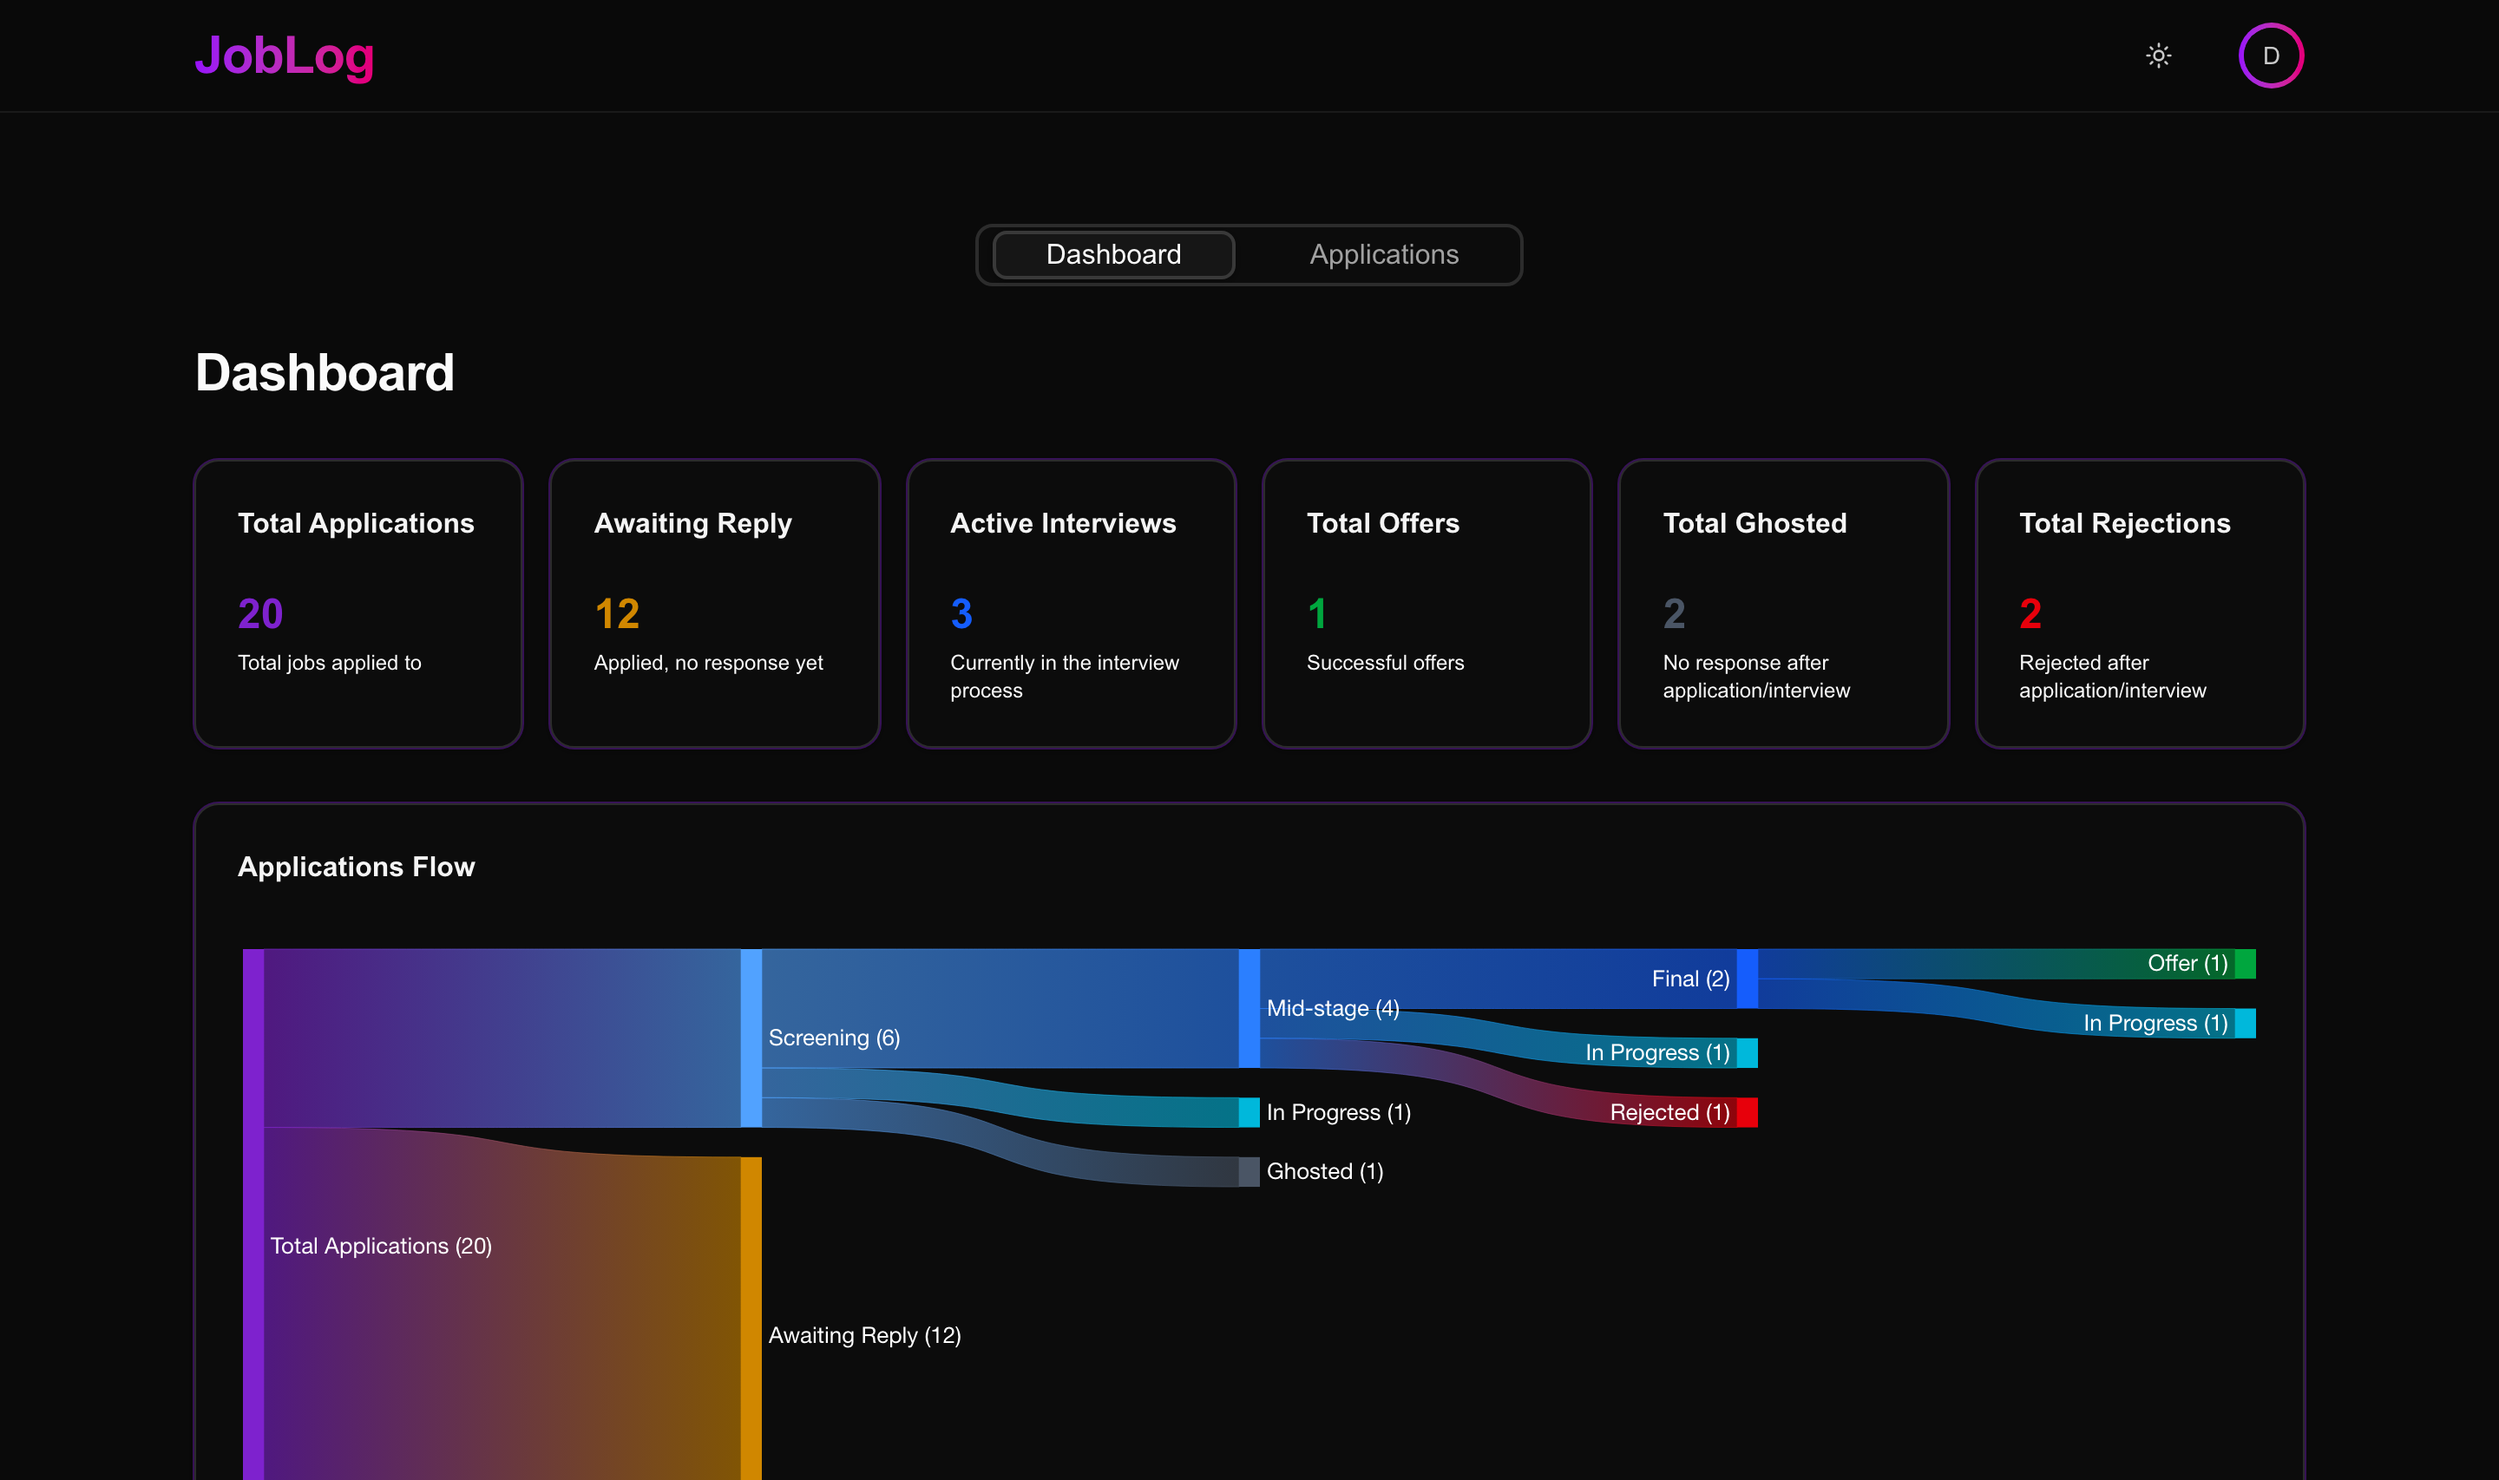
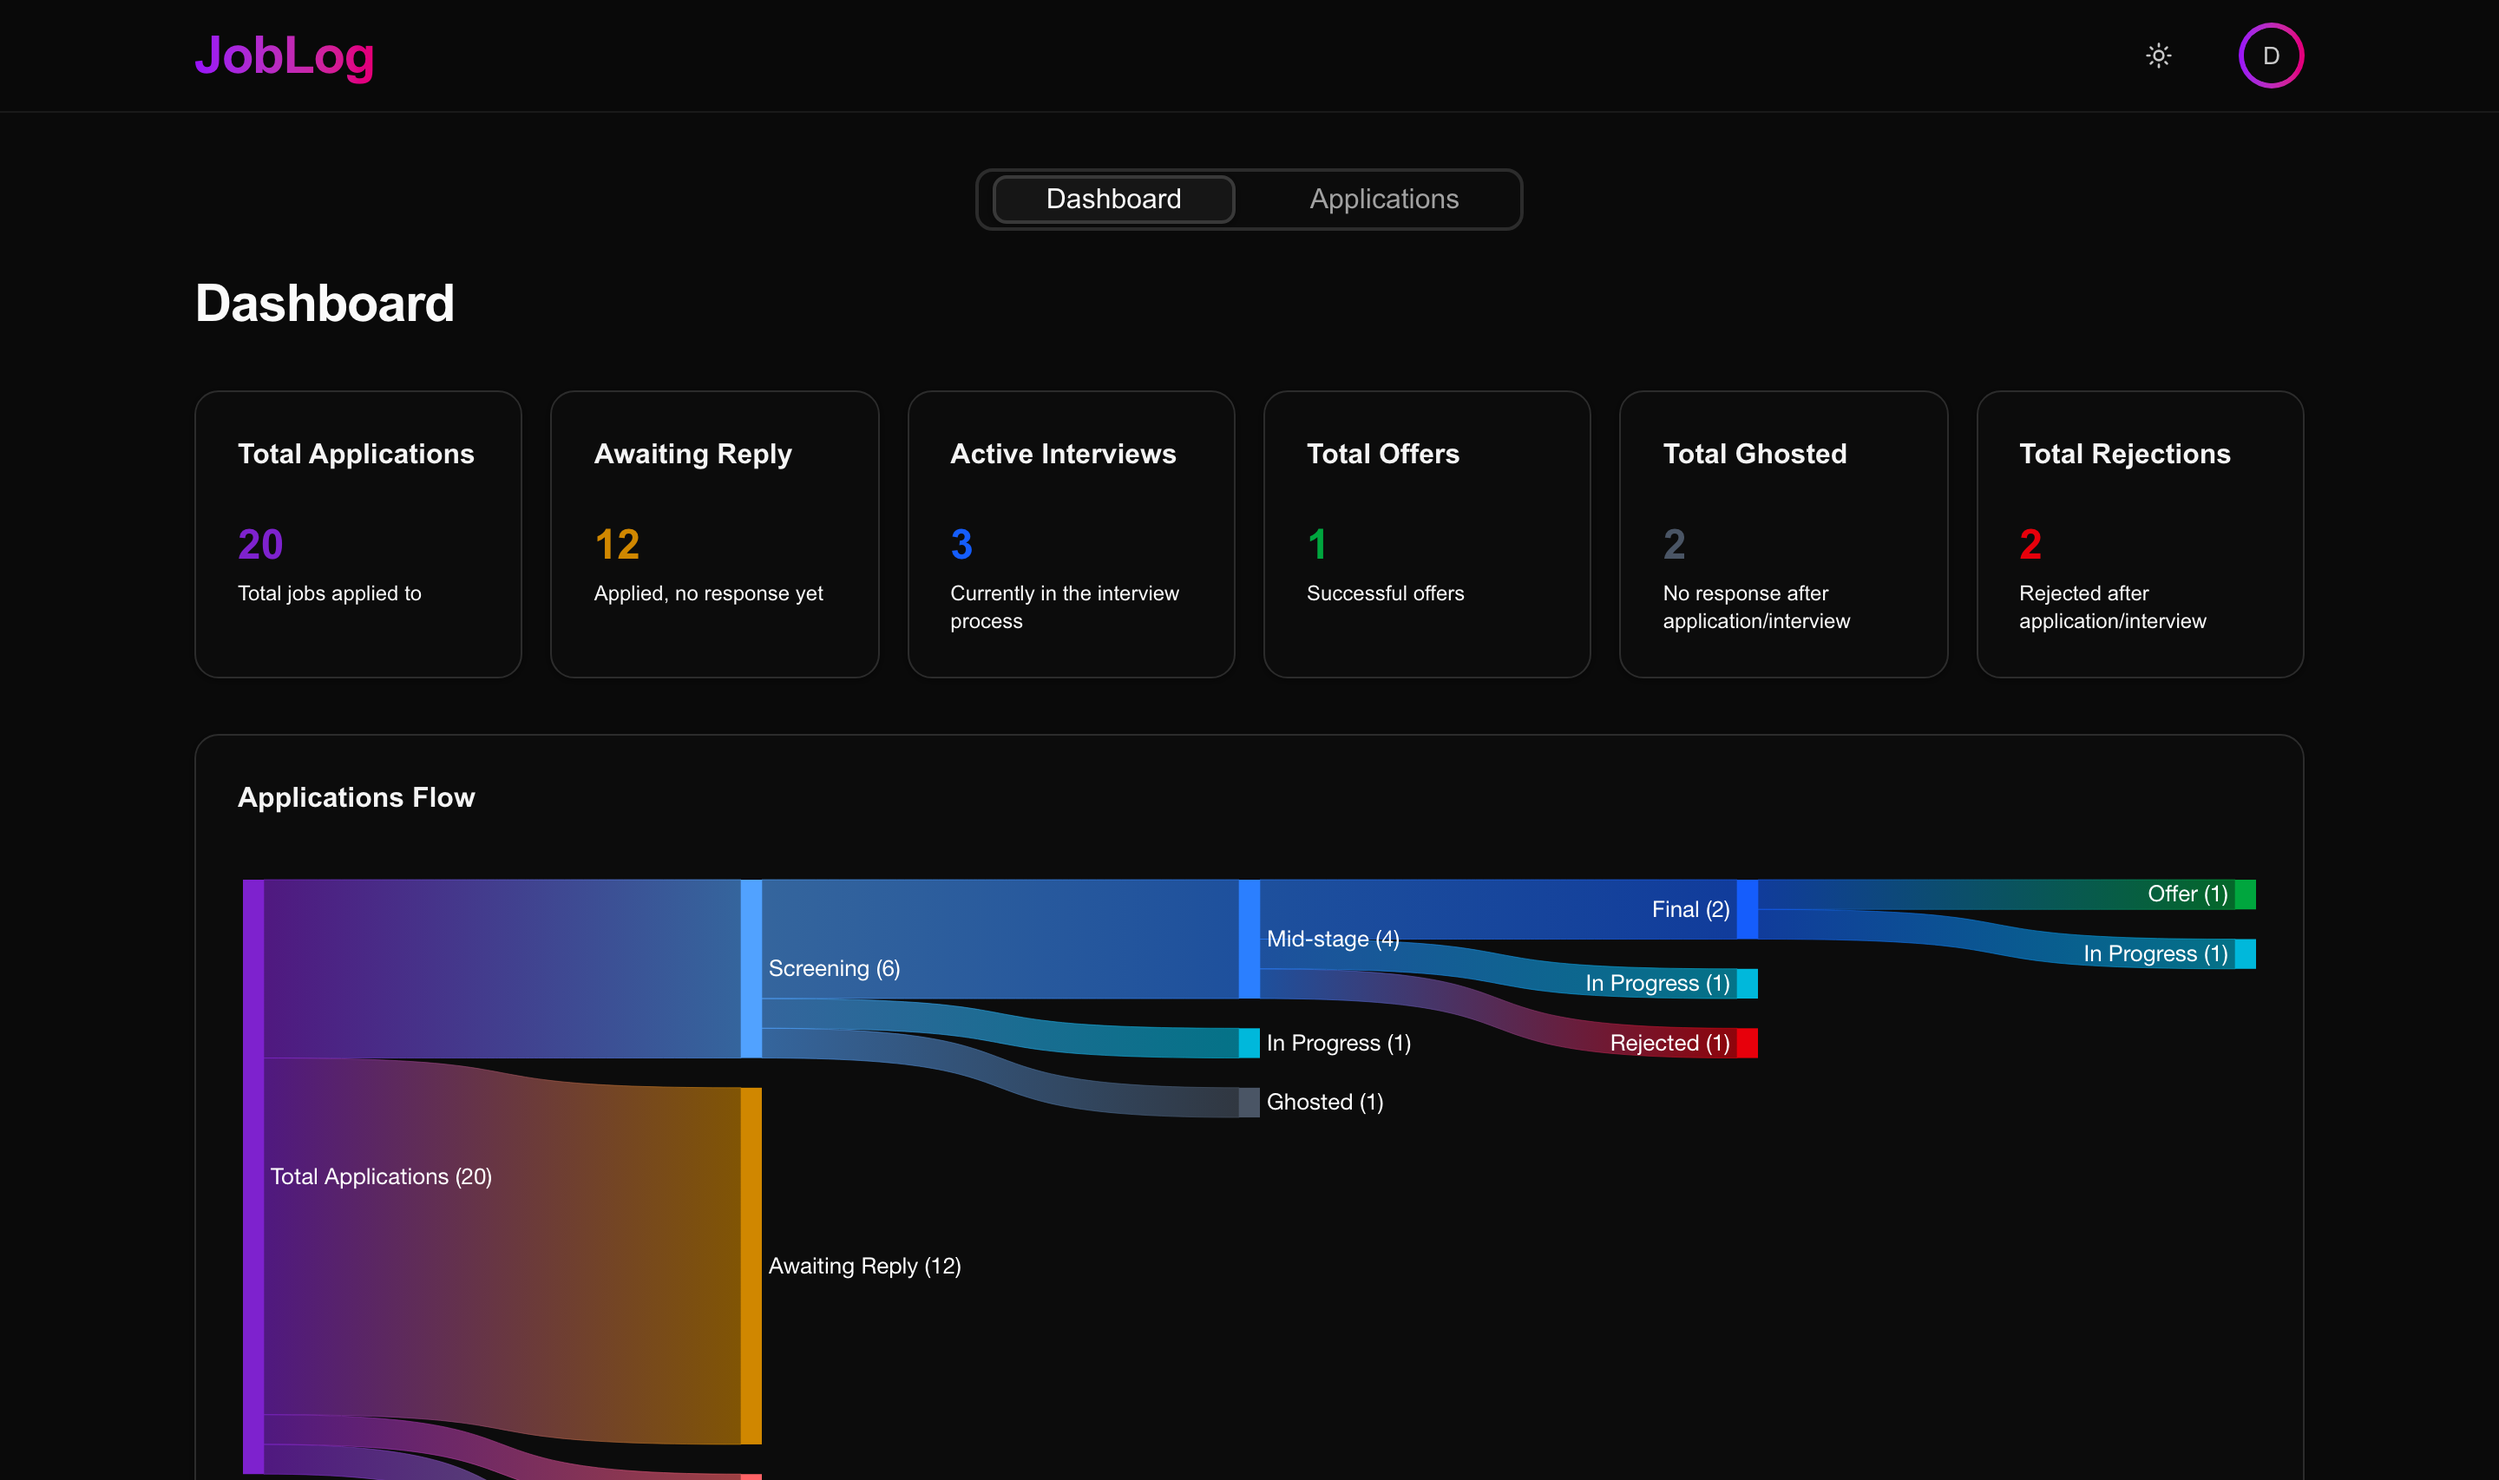
Update screenshots and README
Retake the README and landing page screenshots for the new borders,
spacing and applications table, and document single delete, the status
timeline, the getting-started guide, mobile layout, badge contrast and
the new test counts.

diff --git a/README.md b/README.md
@@ -30,7 +30,8 @@ It is designed to provide clarity, organisation, and insights throughout the job
 ## ✨ Features <a id="features"></a>
 
 ### Application Tracking
-* **CRUD Operations:** Easily add, edit, and view all job applications.
+* **CRUD Operations:** Add, view, edit and delete job applications.
+* **Status Timeline:** Every application keeps its full status history, shown as a timeline with the days between stages.
 * **Data Organisation:** Sort by company, role, and date; search by role/company; and filter by status.
 * **UI/UX:** Dedicated views for desktop (**TanStack Table**) and mobile (**Responsive card view**).
 
@@ -62,17 +63,19 @@ It is designed to provide clarity, organisation, and insights throughout the job
 
 ### UI / UX
 * **Modern Design:** Built with **Tailwind CSS** and **shadcn/ui**.
-* **Experience:** Fully responsive design, dark/light mode themes, and a landing-page screenshot carousel.
+* **Experience:** Fully responsive design (wide charts scroll sideways on phones), dark/light mode themes, and a landing page with a screenshot carousel and feature overview.
+* **Getting Started:** New accounts see a short getting-started guide instead of empty charts.
+* **Accessibility:** Status badges meet WCAG AA colour contrast.
 * **Cold-Start Handling:** The landing page, login page and extension ping a health endpoint on load, so the serverless backend is already waking up by the time you log in.
 
 ---
 
 ## 🧪 Testing <a id="testing"></a>
 
-The backend is covered by a suite of **94 automated tests** using **xUnit**, **Moq**, and the **EF Core In-Memory Provider**.
+The backend is covered by a suite of **96 automated tests** using **xUnit**, **Moq**, and the **EF Core In-Memory Provider**.
 
-* **Unit Tests (47):** Cover core business logic across services, including status transition rules, JWT token generation, analytics calculations, and authentication logic, using mocked dependencies for full isolation.
-* **Integration Tests (47):** Use `WebApplicationFactory` to exercise the full HTTP pipeline, including routing, JWT authentication, and controller behaviour, against a real (in-memory) database. Includes security tests for the demo account guard, input validation, rate limiting, session renewal and session revocation, plus per-visitor demo isolation and cleanup.
+* **Unit Tests (48):** Cover core business logic across services, including status transition rules, JWT token generation, analytics calculations, and authentication logic, using mocked dependencies for full isolation.
+* **Integration Tests (48):** Use `WebApplicationFactory` to exercise the full HTTP pipeline, including routing, JWT authentication, and controller behaviour, against a real (in-memory) database. Includes security tests for the demo account guard, input validation, rate limiting, session renewal and session revocation, plus per-visitor demo isolation and cleanup.
 * **CI Pipeline:** Tests run automatically on every push via **GitHub Actions**, and gate production deployment. A failing test blocks the release.
 
 Run the full suite locally:
@@ -164,7 +167,7 @@ The extension popup, demonstrating successful data capture and theme responsiven
 | **Authentication** | `JWT` (HttpOnly Cookies), `BCrypt` | Sliding 30-day sessions with token-version revocation and secure password hashing. |
 | **Email** | `Brevo` | Transactional email API for user verification and password reset flows. |
 | **Extension** | `HTML`, `CSS`, `Vanilla JavaScript` | Browser-specific APIs (chrome.scripting, chrome.storage). |
-| **Testing** | `xUnit, Moq, EF Core InMemory` | 94 tests (unit and integration), CI gated deployment. |
+| **Testing** | `xUnit, Moq, EF Core InMemory` | 96 tests (unit and integration), CI gated deployment. |
 
 ---
 
